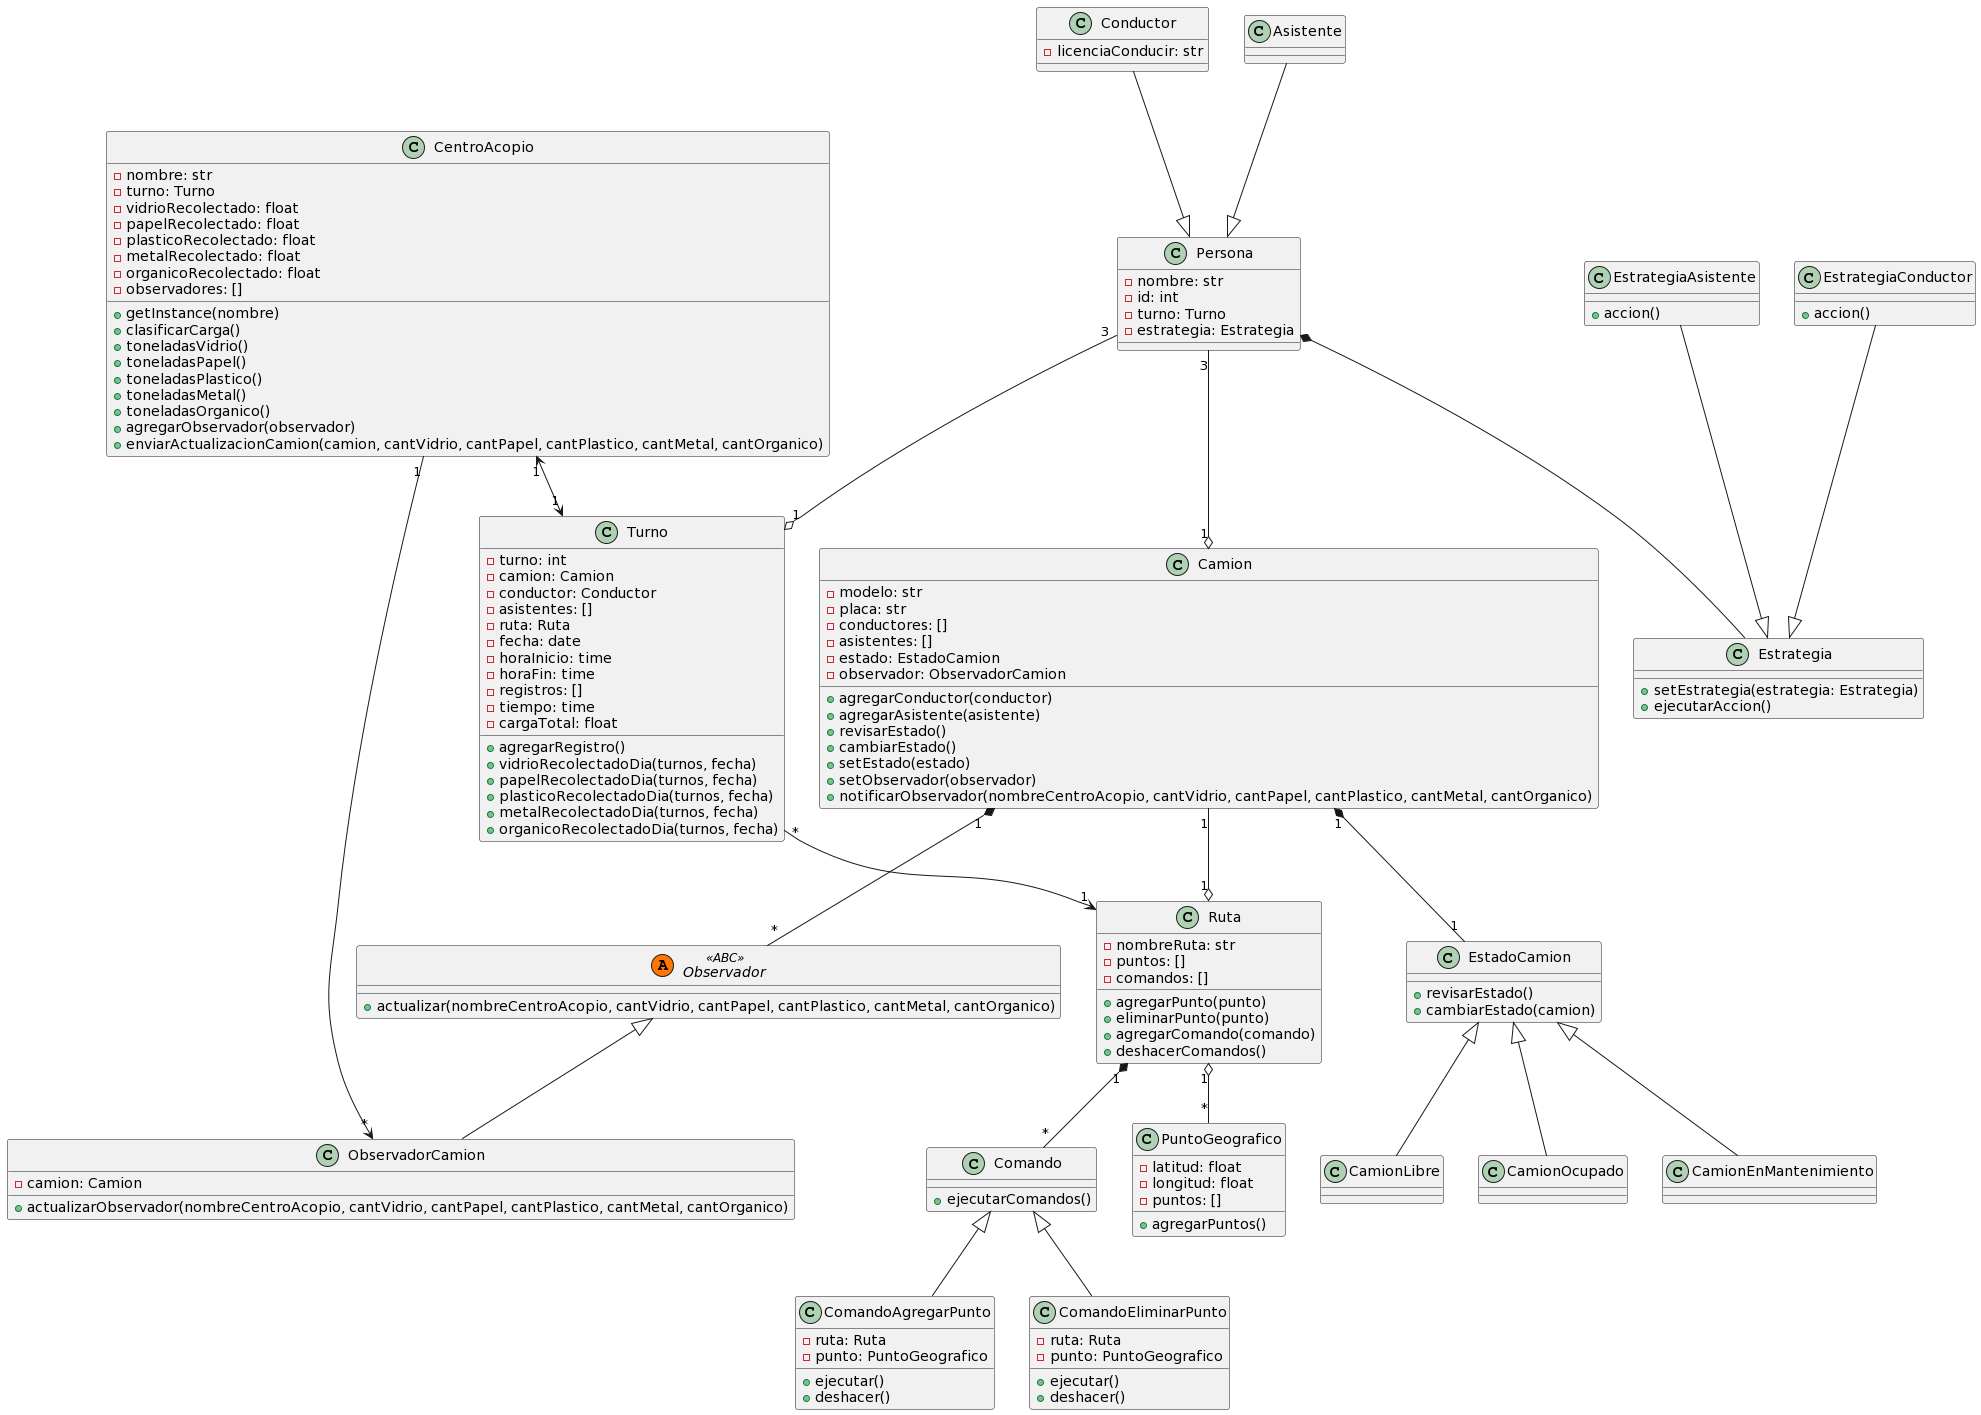
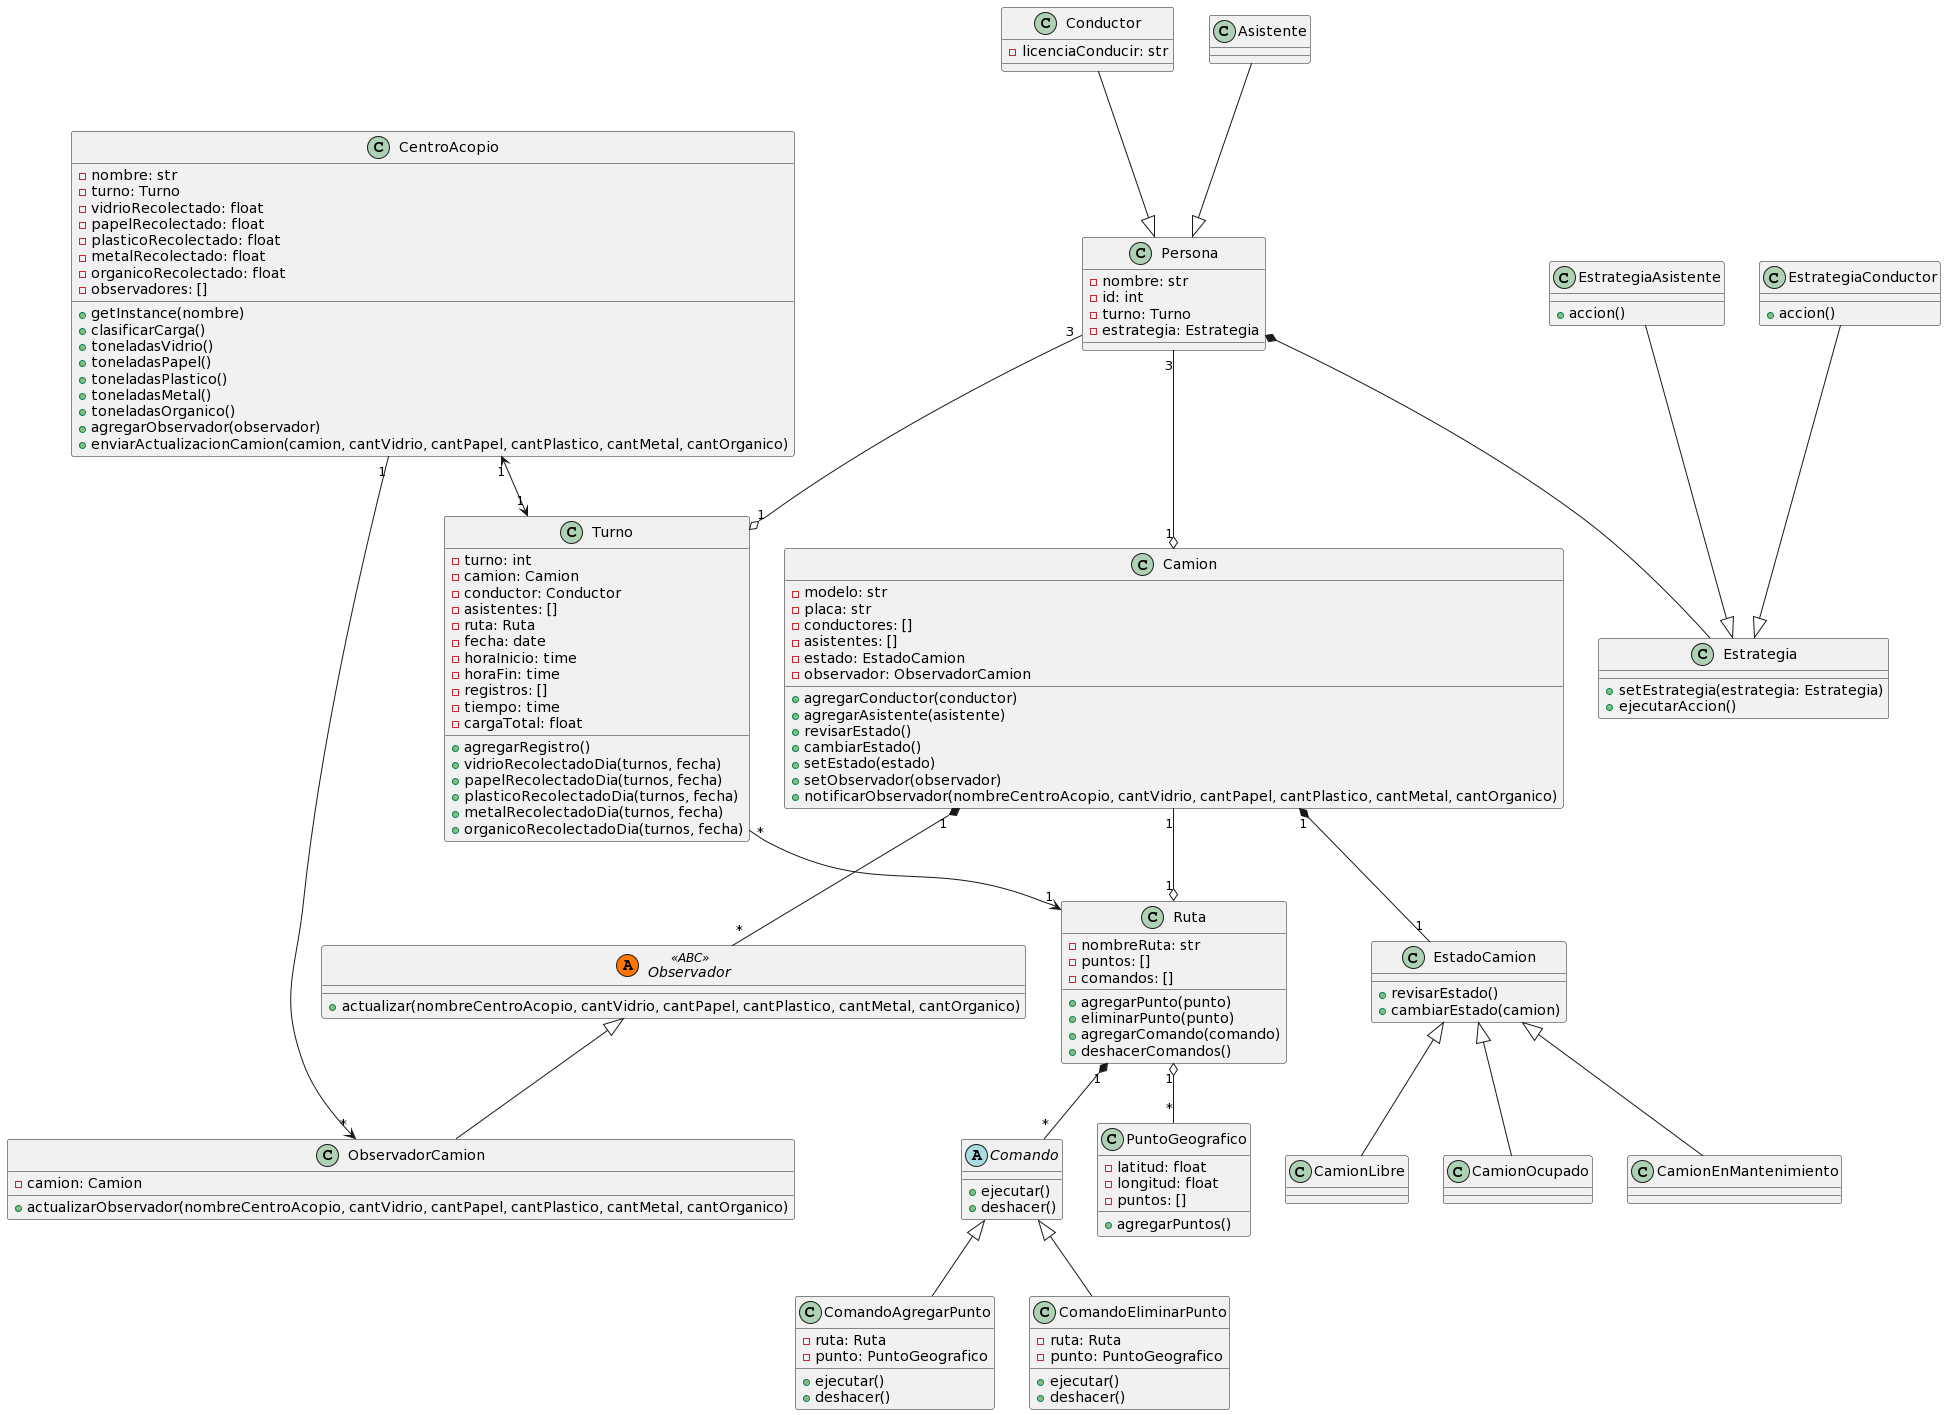
Last changes

diff --git a/clases/ruta.py b/clases/ruta.py
@@ -1,9 +1,13 @@
+from punto_geografico import PuntoGeografico
+
 # Clase que representa una ruta que contiene puntos geográficos y comandos asociados
 class Ruta:
-    # Atributos de esta clase
-    def __init__(self, nombreRuta, puntos):
+    def __init__(self, nombreRuta, puntos = None):
         self.nombreRuta = nombreRuta
-        self.puntos = puntos # --> Lista de los puntos geográficos
+        if puntos is None:
+            self.puntos = []  # Inicializar la lista de puntos si no se proporciona
+        else:
+            self.puntos = puntos
         self.comandos = []
 
     # Agrega un punto geográfico a la ruta
@@ -19,42 +23,40 @@ class Ruta:
         self.comandos.append(comando)
 
     # Deshace todos los comandos almacenados en la ruta en orden inverso
-    def deshacerComandos(self, comando):
+    def deshacerComandos(self):
         for comando in reversed(self.comandos):
             comando.deshacer()
+            self.comandos.remove(comando)
 
 # Clase base abstracta para un comando en una ruta.
 class Comando:
-    # Ejecuta todos los comandos almacenados en la ruta
-    def ejecutarComandos(self):
-        for comando in self.comandos:
-            comando.ejecutar()
+    # Ejecuta el comando
+    def ejecutar(self):
+        pass
+
+    # Deshace el comando
+    def deshacer(self):
+        pass
 
 # Clase que representa un comando para agregar un punto a una ruta
 class ComandoAgregarPunto:
-    # Atributos de esta clase
     def __init__(self, ruta, punto):
-        self.ruta = ruta # --> Ruta a la cual se agregará el punto
-        self.punto = punto # --> Punto a agregar
+        self.ruta = ruta  # Ruta a la cual se agregará el punto
+        self.punto = punto  # Punto a agregar
 
     # Ejecuta el comando para agregar el punto a la ruta
     def ejecutar(self):
         self.ruta.agregarPunto(self.punto)
-        for puntos in Ruta.puntos:
-            print(puntos)
 
-    # Deshace el comando, eliminando el último punto de la ruta
+    # Deshace el comando, eliminando el punto de la ruta
     def deshacer(self):
         self.ruta.eliminarPunto(self.punto)
-        for puntos in Ruta.puntos:
-            print(puntos)
 
 # Clase que representa un comando para eliminar un punto de una ruta
 class ComandoEliminarPunto:
-    # Atributos de esta clase
     def __init__(self, ruta, punto):
-        self.ruta = ruta # --> Ruta de la cual se eliminará el punto
-        self.punto = punto # --> Punto a eliminar
+        self.ruta = ruta  # Ruta de la cual se eliminará el punto
+        self.punto = punto  # Punto a eliminar
 
     # Ejecuta el comando para eliminar el punto de la ruta
     def ejecutar(self):

diff --git a/clases/pruebas.py b/clases/pruebas.py
@@ -1,0 +1,75 @@
+from punto_geografico import PuntoGeografico
+from ruta import Ruta
+from ruta import ComandoAgregarPunto
+from conductor import Conductor
+from asistente import Asistente
+from persona import EstrategiaConductor
+from persona import EstrategiaAsistente
+from camion import Camion
+from camion import ObservadorCamion
+
+# Prueba 1: agregar y eliminar puntos de una ruta
+ruta = Ruta("Ruta 1", [])
+punto1 = PuntoGeografico(10.123, -15.678)
+punto2 = PuntoGeografico(20.456, -25.789)
+
+ruta.agregarPunto(punto1)
+ruta.agregarPunto(punto2)
+
+assert len(ruta.puntos) == 2
+
+
+ruta.eliminarPunto(punto1)
+
+assert len(ruta.puntos) == 1
+assert punto1 not in ruta.puntos
+
+
+# Prueba 2: ejecutar comondos en una ruta
+ruta = Ruta("Ruta 1", [])
+punto1 = PuntoGeografico(10.123, -15.678)
+punto2 = PuntoGeografico(20.456, -25.789)
+
+comando1 = ComandoAgregarPunto(ruta, punto1)
+comando2 = ComandoAgregarPunto(ruta, punto2)
+
+ruta.agregarComando(comando1)
+ruta.agregarComando(comando2)
+
+ruta.deshacerComandos()
+
+assert len(ruta.puntos) == 0
+
+
+# Prueba 3: establecer estrategia y ejecutar acción de una persona
+estrategia_conductor = EstrategiaConductor()
+estrategia_asistente = EstrategiaAsistente()
+
+conductor = Conductor("Juan", 1, "Mañana", "Licencia123")
+asistente = Asistente("María", 2, "Tarde")
+
+conductor.estrategia.set_estrategia(estrategia_conductor)
+asistente.estrategia.set_estrategia(estrategia_asistente)
+
+assert conductor.estrategia == estrategia_conductor
+assert asistente.estrategia == estrategia_asistente
+
+conductor.estrategia.ejecutarAccion()  # Salida esperada: "Conduciendo el camión"
+asistente.estrategia.ejecutarAccion()  # Salida esperada: "Asistiendo en la recolección de residuos"
+
+
+# Prueba 4: cambiar el estado de un camión
+camion = Camion("Modelo1", "ABC123")
+observador = ObservadorCamion(camion)
+camion.setObservador(observador)
+
+camion.revisarEstado()  # Salida esperada: "El camión está libre y listo para su uso."
+
+camion.cambiarEstado()  # Cambiar de estado de libre a ocupado
+camion.revisarEstado()  # Salida esperada: "El camión está ocupado."
+
+camion.cambiarEstado()  # Cambiar de estado de ocupado a en mantenimiento
+camion.revisarEstado()  # Salida esperada: "El camión está en mantenimiento y no está disponible."
+
+camion.cambiarEstado()  # Cambiar de estado de en mantenimiento a libre
+camion.revisarEstado()  # Salida esperada: "El camión está libre y listo para su uso."

diff --git a/clases/main.py b/clases/main.py
@@ -1,0 +1,58 @@
+import unittest
+from punto_geografico import PuntoGeografico
+from ruta import Ruta
+from ruta import ComandoAgregarPunto
+from ruta import ComandoEliminarPunto
+
+class RutaTestCase(unittest.TestCase):
+    def setUp(self):
+        self.ruta = Ruta("Ruta 1", [])
+
+    def test_agregar_punto(self):
+        punto = PuntoGeografico(10.0, 20.0)
+        self.ruta.agregarPunto(punto)
+        self.assertEqual(len(self.ruta.puntos), 1)
+        self.assertEqual(self.ruta.puntos[0], punto)
+
+    def test_eliminar_punto(self):
+        punto = PuntoGeografico(10.0, 20.0)
+        self.ruta.agregarPunto(punto)
+        self.ruta.eliminarPunto(punto)
+        self.assertEqual(len(self.ruta.puntos), 0)
+
+    def test_agregar_comando(self):
+        comando = ComandoAgregarPunto(self.ruta, PuntoGeografico(10.0, 20.0))
+        self.ruta.agregarComando(comando)
+        self.assertEqual(len(self.ruta.comandos), 1)
+        self.assertEqual(self.ruta.comandos[0], comando)
+
+    def test_deshacer_comandos(self):
+        punto1 = PuntoGeografico(10.0, 20.0)
+        punto2 = PuntoGeografico(30.0, 40.0)
+        comando1 = ComandoAgregarPunto(self.ruta, punto1)
+        comando2 = ComandoAgregarPunto(self.ruta, punto2)
+        self.ruta.agregarComando(comando1)
+        self.ruta.agregarComando(comando2)
+        self.assertEqual(len(self.ruta.puntos), 2)
+        self.ruta.deshacerComandos()
+        self.assertEqual(len(self.ruta.puntos), 2)
+
+    def test_deshacer_comandos_con_eliminar_punto(self):
+        punto = PuntoGeografico(10.0, 20.0)
+        comando1 = ComandoAgregarPunto(self.ruta, punto)
+        comando2 = ComandoEliminarPunto(self.ruta, punto)
+        self.ruta.agregarComando(comando1)
+        self.ruta.agregarComando(comando2)
+        self.assertEqual(len(self.ruta.puntos), 0)
+        self.ruta.deshacerComandos()
+        self.assertEqual(len(self.ruta.puntos), 1)
+        self.assertEqual(self.ruta.puntos[0], punto)
+
+    def test_nombre_ruta(self):
+        self.assertEqual(self.ruta.nombreRuta, "Ruta 1")
+
+    def test_deshacer_comandos_sin_comandos(self):
+        self.ruta.deshacerComandos() # No debería lanzar ninguna excepción
+
+if __name__ == '__main__':
+    unittest.main()
